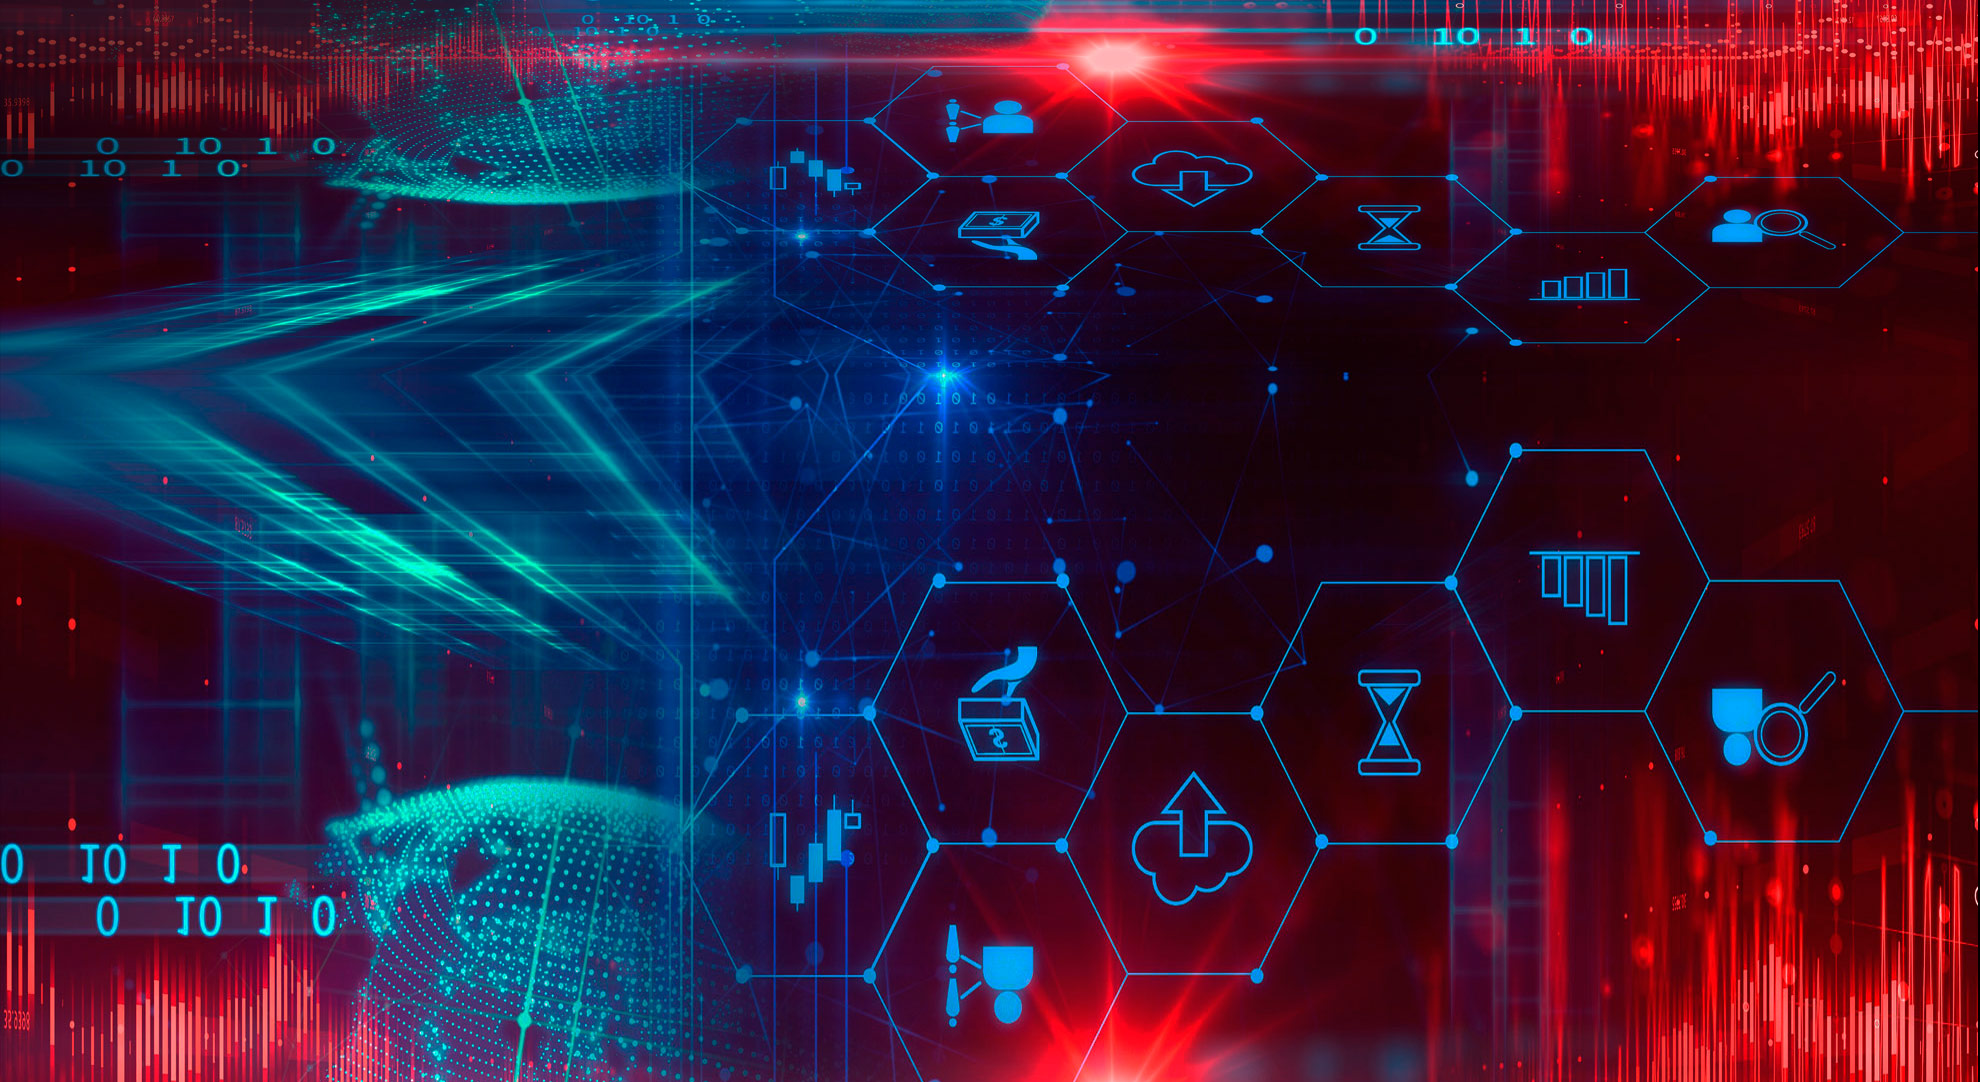
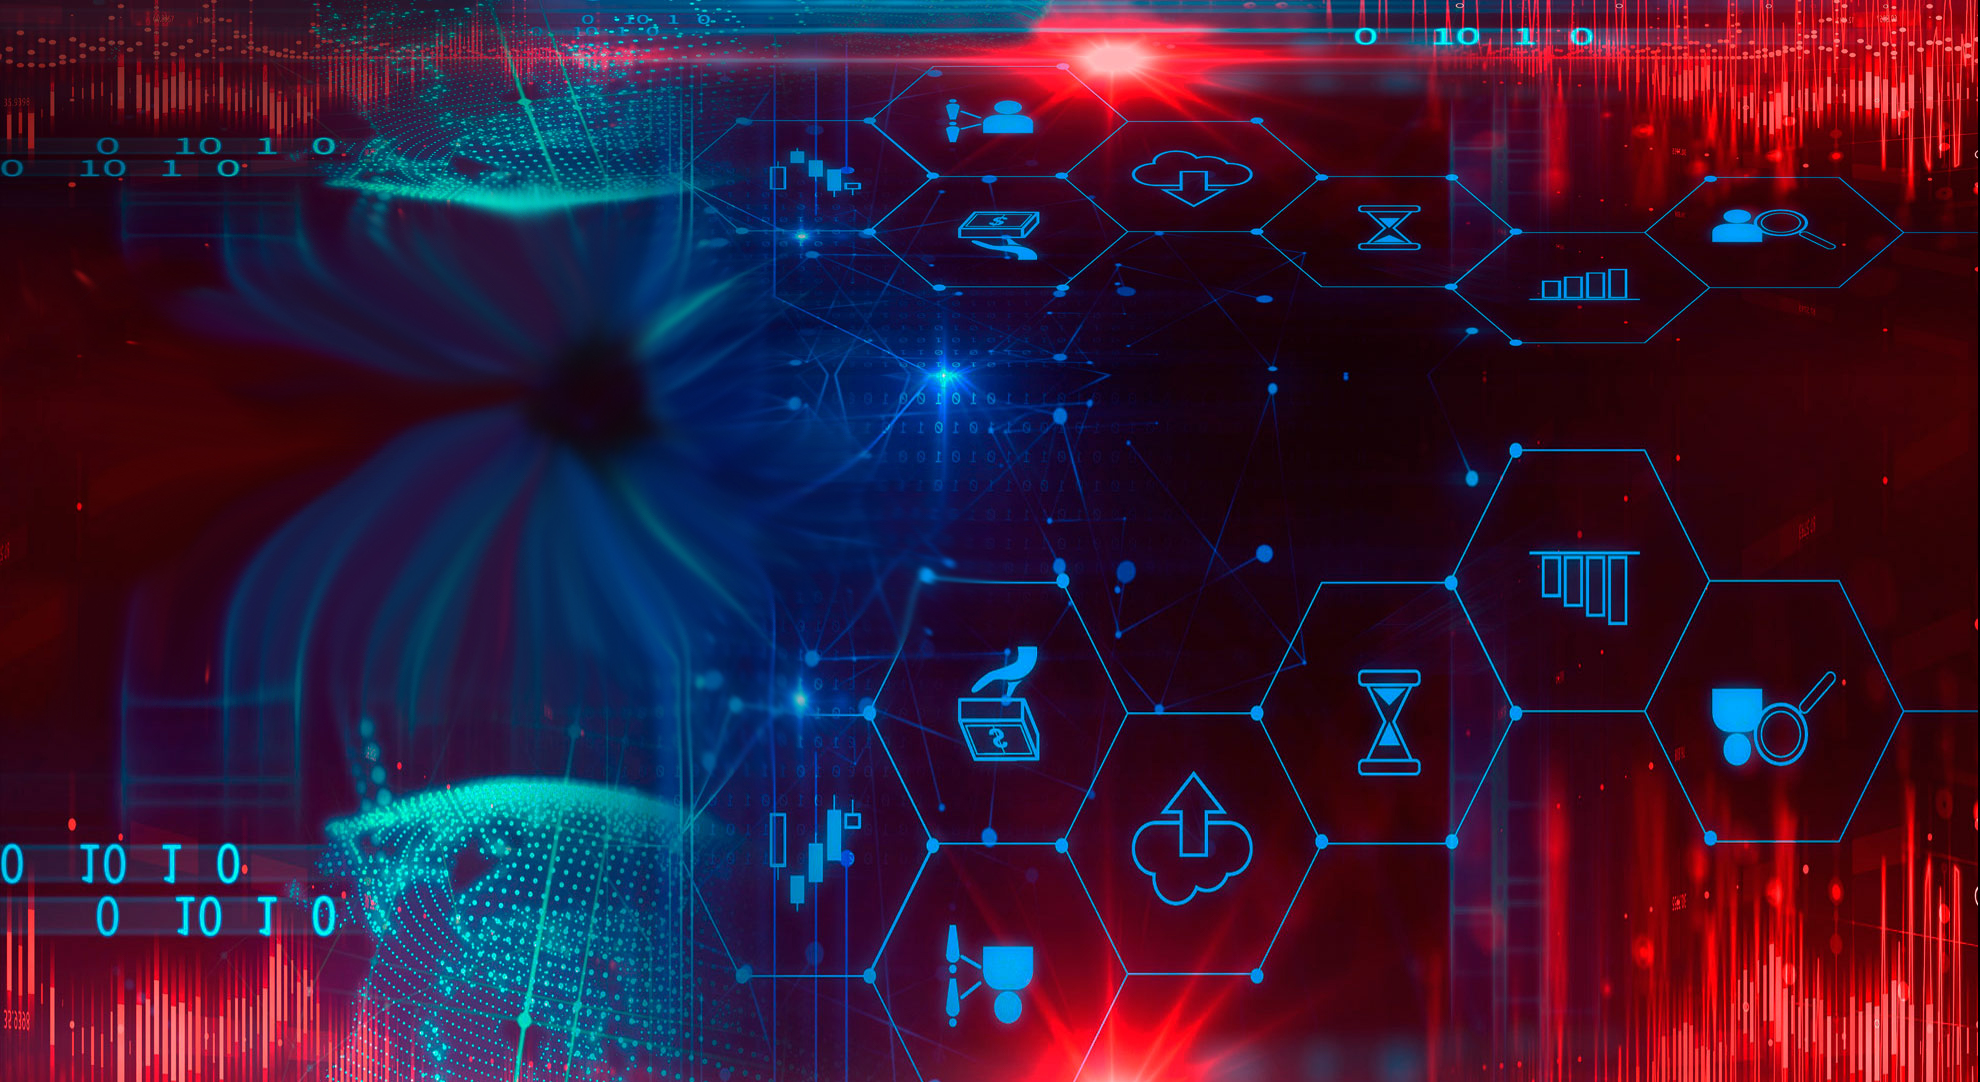
New Files

diff --git a/Scripts/AppLoader.js b/Scripts/AppLoader.js
@@ -46,6 +46,7 @@ function newAppLoader() {
                 'DesignerSpace/Workspace/FunctionLibraries/ReferenceAttachDetach.js',
                 'DesignerSpace/Workspace/FunctionLibraries/NodeDeleter.js',
                 'DesignerSpace/Workspace/FunctionLibraries/ProtocolNode.js',
+                'DesignerSpace/Workspace/FunctionLibraries/NodeCloning.js',
                 'DesignerSpace/Workspace/FunctionLibraries/NodeChildren.js', 
                 'DesignerSpace/Workspace/FunctionLibraries/TaskFunctions.js',
                 'DesignerSpace/Workspace/FunctionLibraries/SessionFunctions.js',
@@ -90,7 +91,8 @@ function newAppLoader() {
                 'FloatingSpace/CircularMenu.js',
                 'FloatingSpace/CircularMenuItem.js',
                 'FloatingSpace/CircularProgressBar.js',
-                'FloatingSpace/CodeEditor.js',
+                'FloatingSpace/BusyProgressBar.js',
+                'FloatingSpace/CodeEditor.js', 
                 'FloatingSpace/ConfigEditor.js',
                 'FloatingSpace/ConditionEditor.js',
                 'FloatingSpace/FormulaEditor.js',
